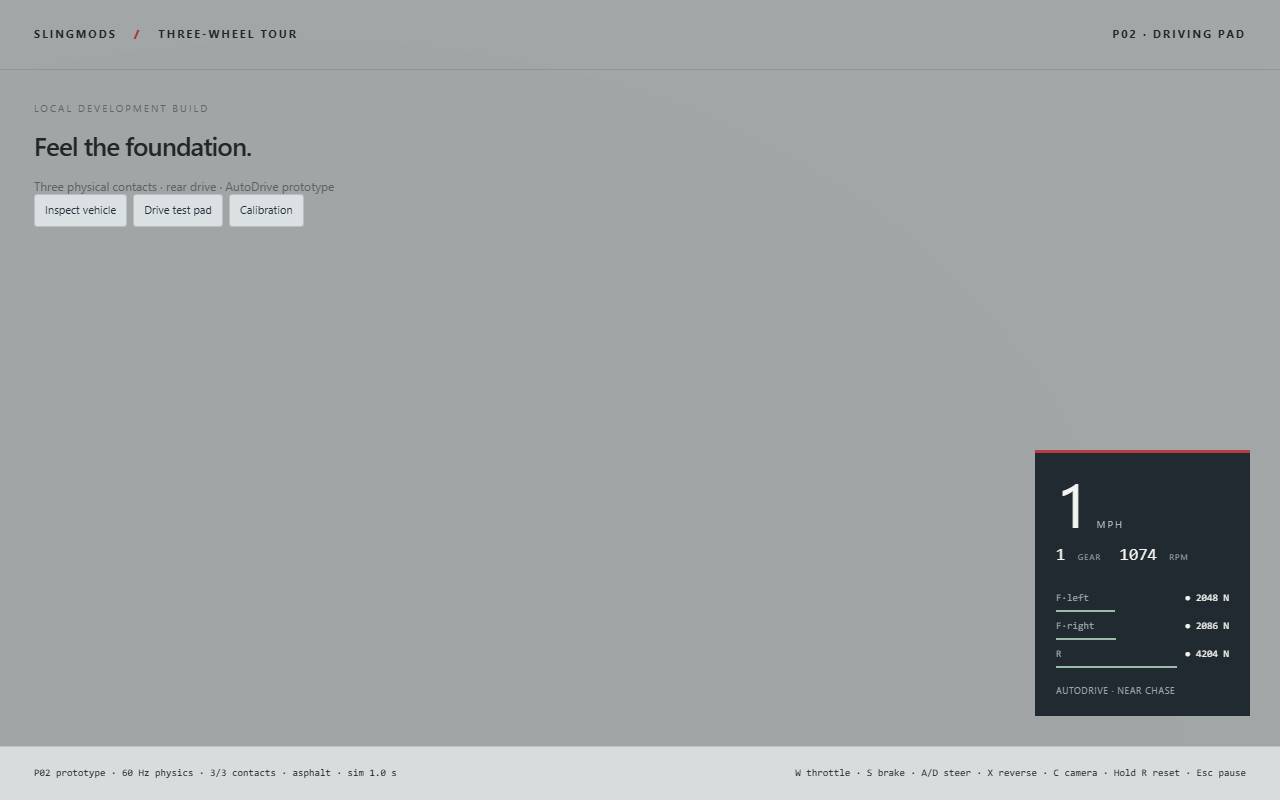
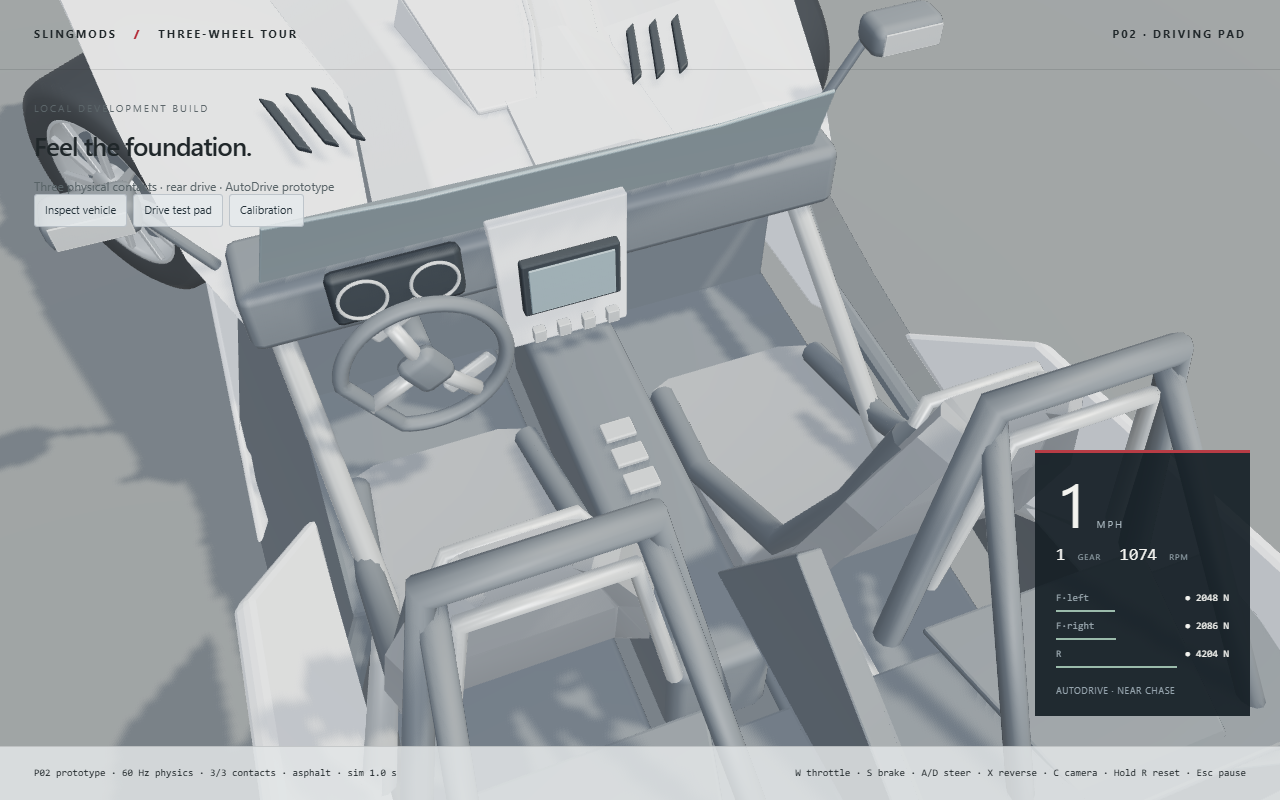
Correct steering capture framing and document isolated preview workflow

diff --git a/README.md b/README.md
@@ -9,6 +9,14 @@ npm run build
 npm run dev
 ```
 
-Local development: http://127.0.0.1:5186 . `npm run test:browser` captures the Blender calibration in an isolated headless browser while the dev server runs. `npm run preview:accepted` validates G0 before opening a built local server. No public deployment is configured.
+Local development: http://127.0.0.1:5186 . Open `/?scene=vehicle` for the accepted Slingshot clay inspection or `/?scene=pad` for the driving prototype. The default route retains the original calibration fixture. `/?scene=vehicle&asset=fleet` shows the three scale blockouts; these are diagnostic assets, not three finished vehicles.
+
+Drive: W/up throttle, S/down brake, A/D or arrows steer, X request reverse (brakes before engaging), C near/far chase, hold R for one continuous second to reset, Escape pause. Changing focus pauses and clears held keys; Escape resumes. Mouse orbit/zoom operates only in the inspection view. No physical controller tests or controller implementation are claimed at this stage.
+
+`npm run test:browser` captures Blender calibration into the G0 evidence location; accepted evidence must not be overwritten casually. To rerun without changing an accepted manifest, set `EVIDENCE_DIR` to a fresh folder and optionally `TWT_URL` to the calibration URL of a built snapshot. `npm run preview:accepted` validates G1 and G2 (including G0) before starting the built server at http://127.0.0.1:5187. G1 has its own independent validator command, `npm run gate:g1`. No public deployment is configured.
+
+Runtime captures use a stable build served at port5187 to avoid Vite HMR changing a frame during review. After `npm run build`, the isolated commands are `npm run capture:vehicle`, `npm run capture:driving`, `npm run record:driving`, `npm run record:stress` and `npm run test:presenter`. Each records actual outcomes and provenance under `director-kit/production/evidence`. Recordings deliberately use SwiftShader and run slower than wall-clock real time; they are correctness/motion evidence, not hardware performance results. Frame-cap injection verifies fixed-step scheduling and final rendered poses; it does not claim the software renderer sustained120/144FPS.
+
+The P02 physics model is an explicitly estimated simcade model. The main unresolved high-energy limit is the large hop/roll after hitting an18cm curb near48mph; ordinary-speed curb and incline behavior are separate reviewed traces. Current rendered geometry is clay. Finished rider contact, cabin/surface refinement, garage, audio, hardware performance, race, catalog and campaign work require their later gates.
 
 Rebuild the actual calibration asset with `.tools/blender-4.5.2-windows-x64/blender.exe --background --factory-startup --python scripts/calibration.py`. The portable executable is a local ignored tool; editable `.blend` and GLB are versioned. See `director-kit/production/state.json` for the exact continuation point and gate reviews for limitations.
